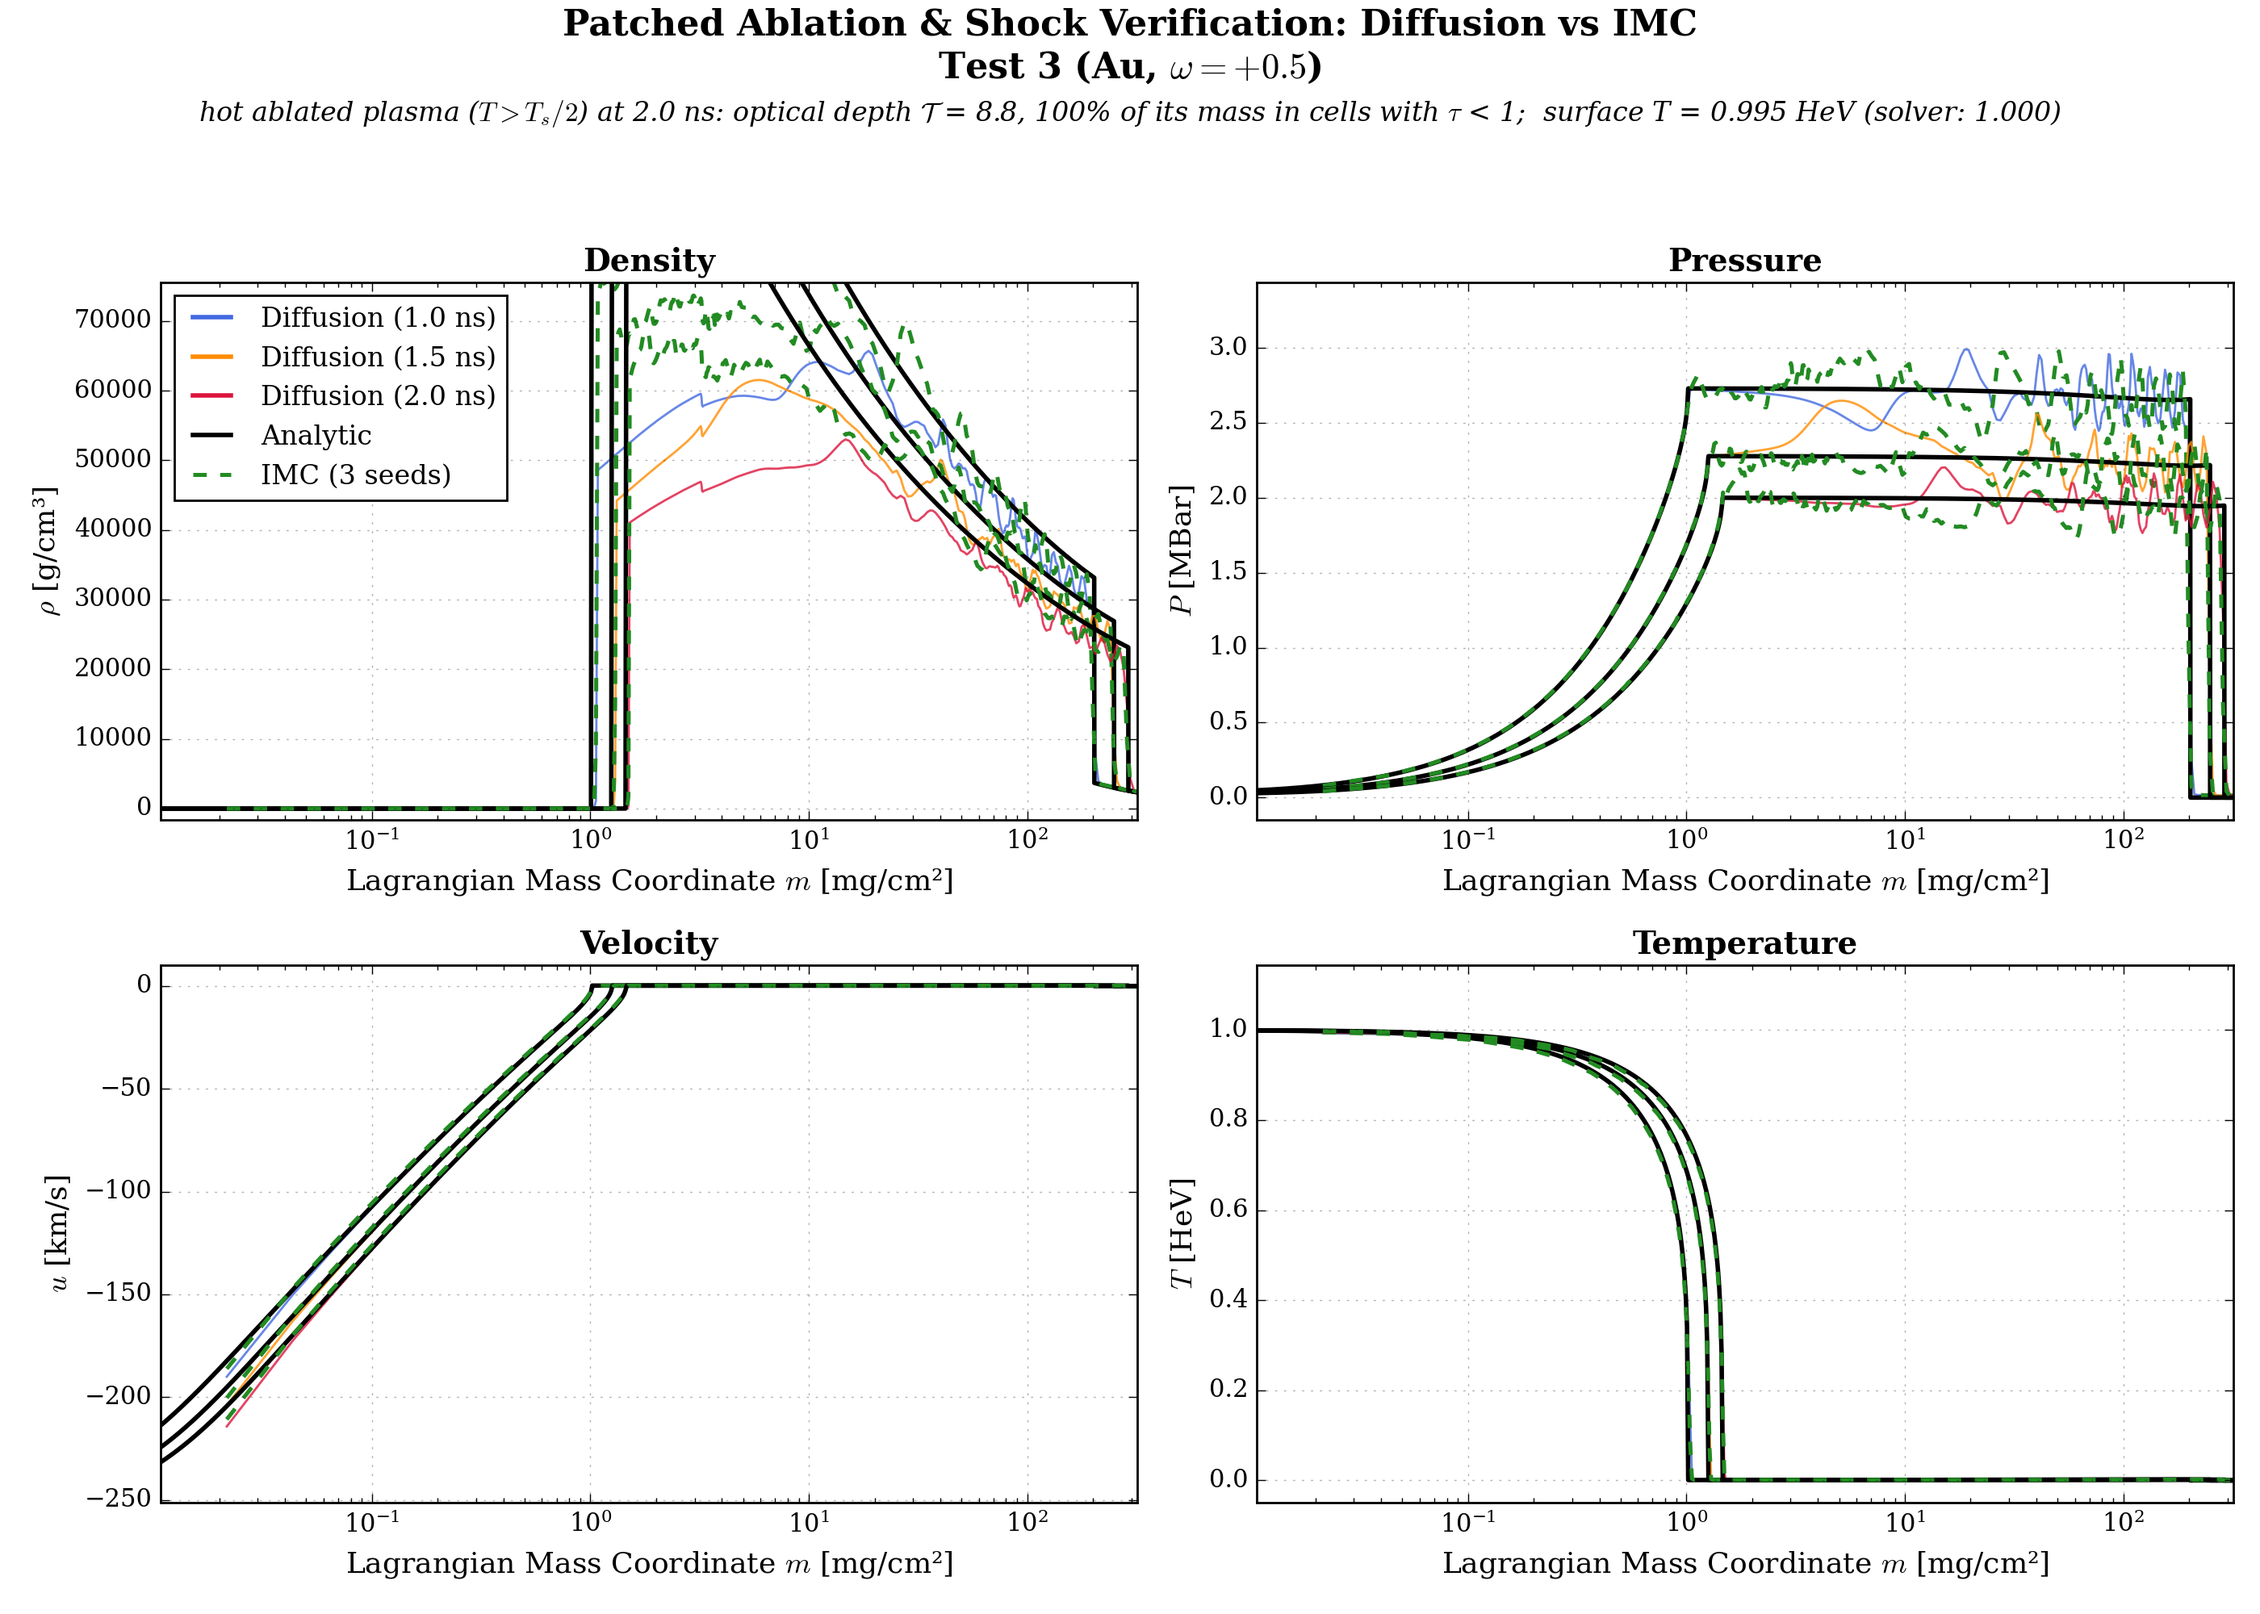
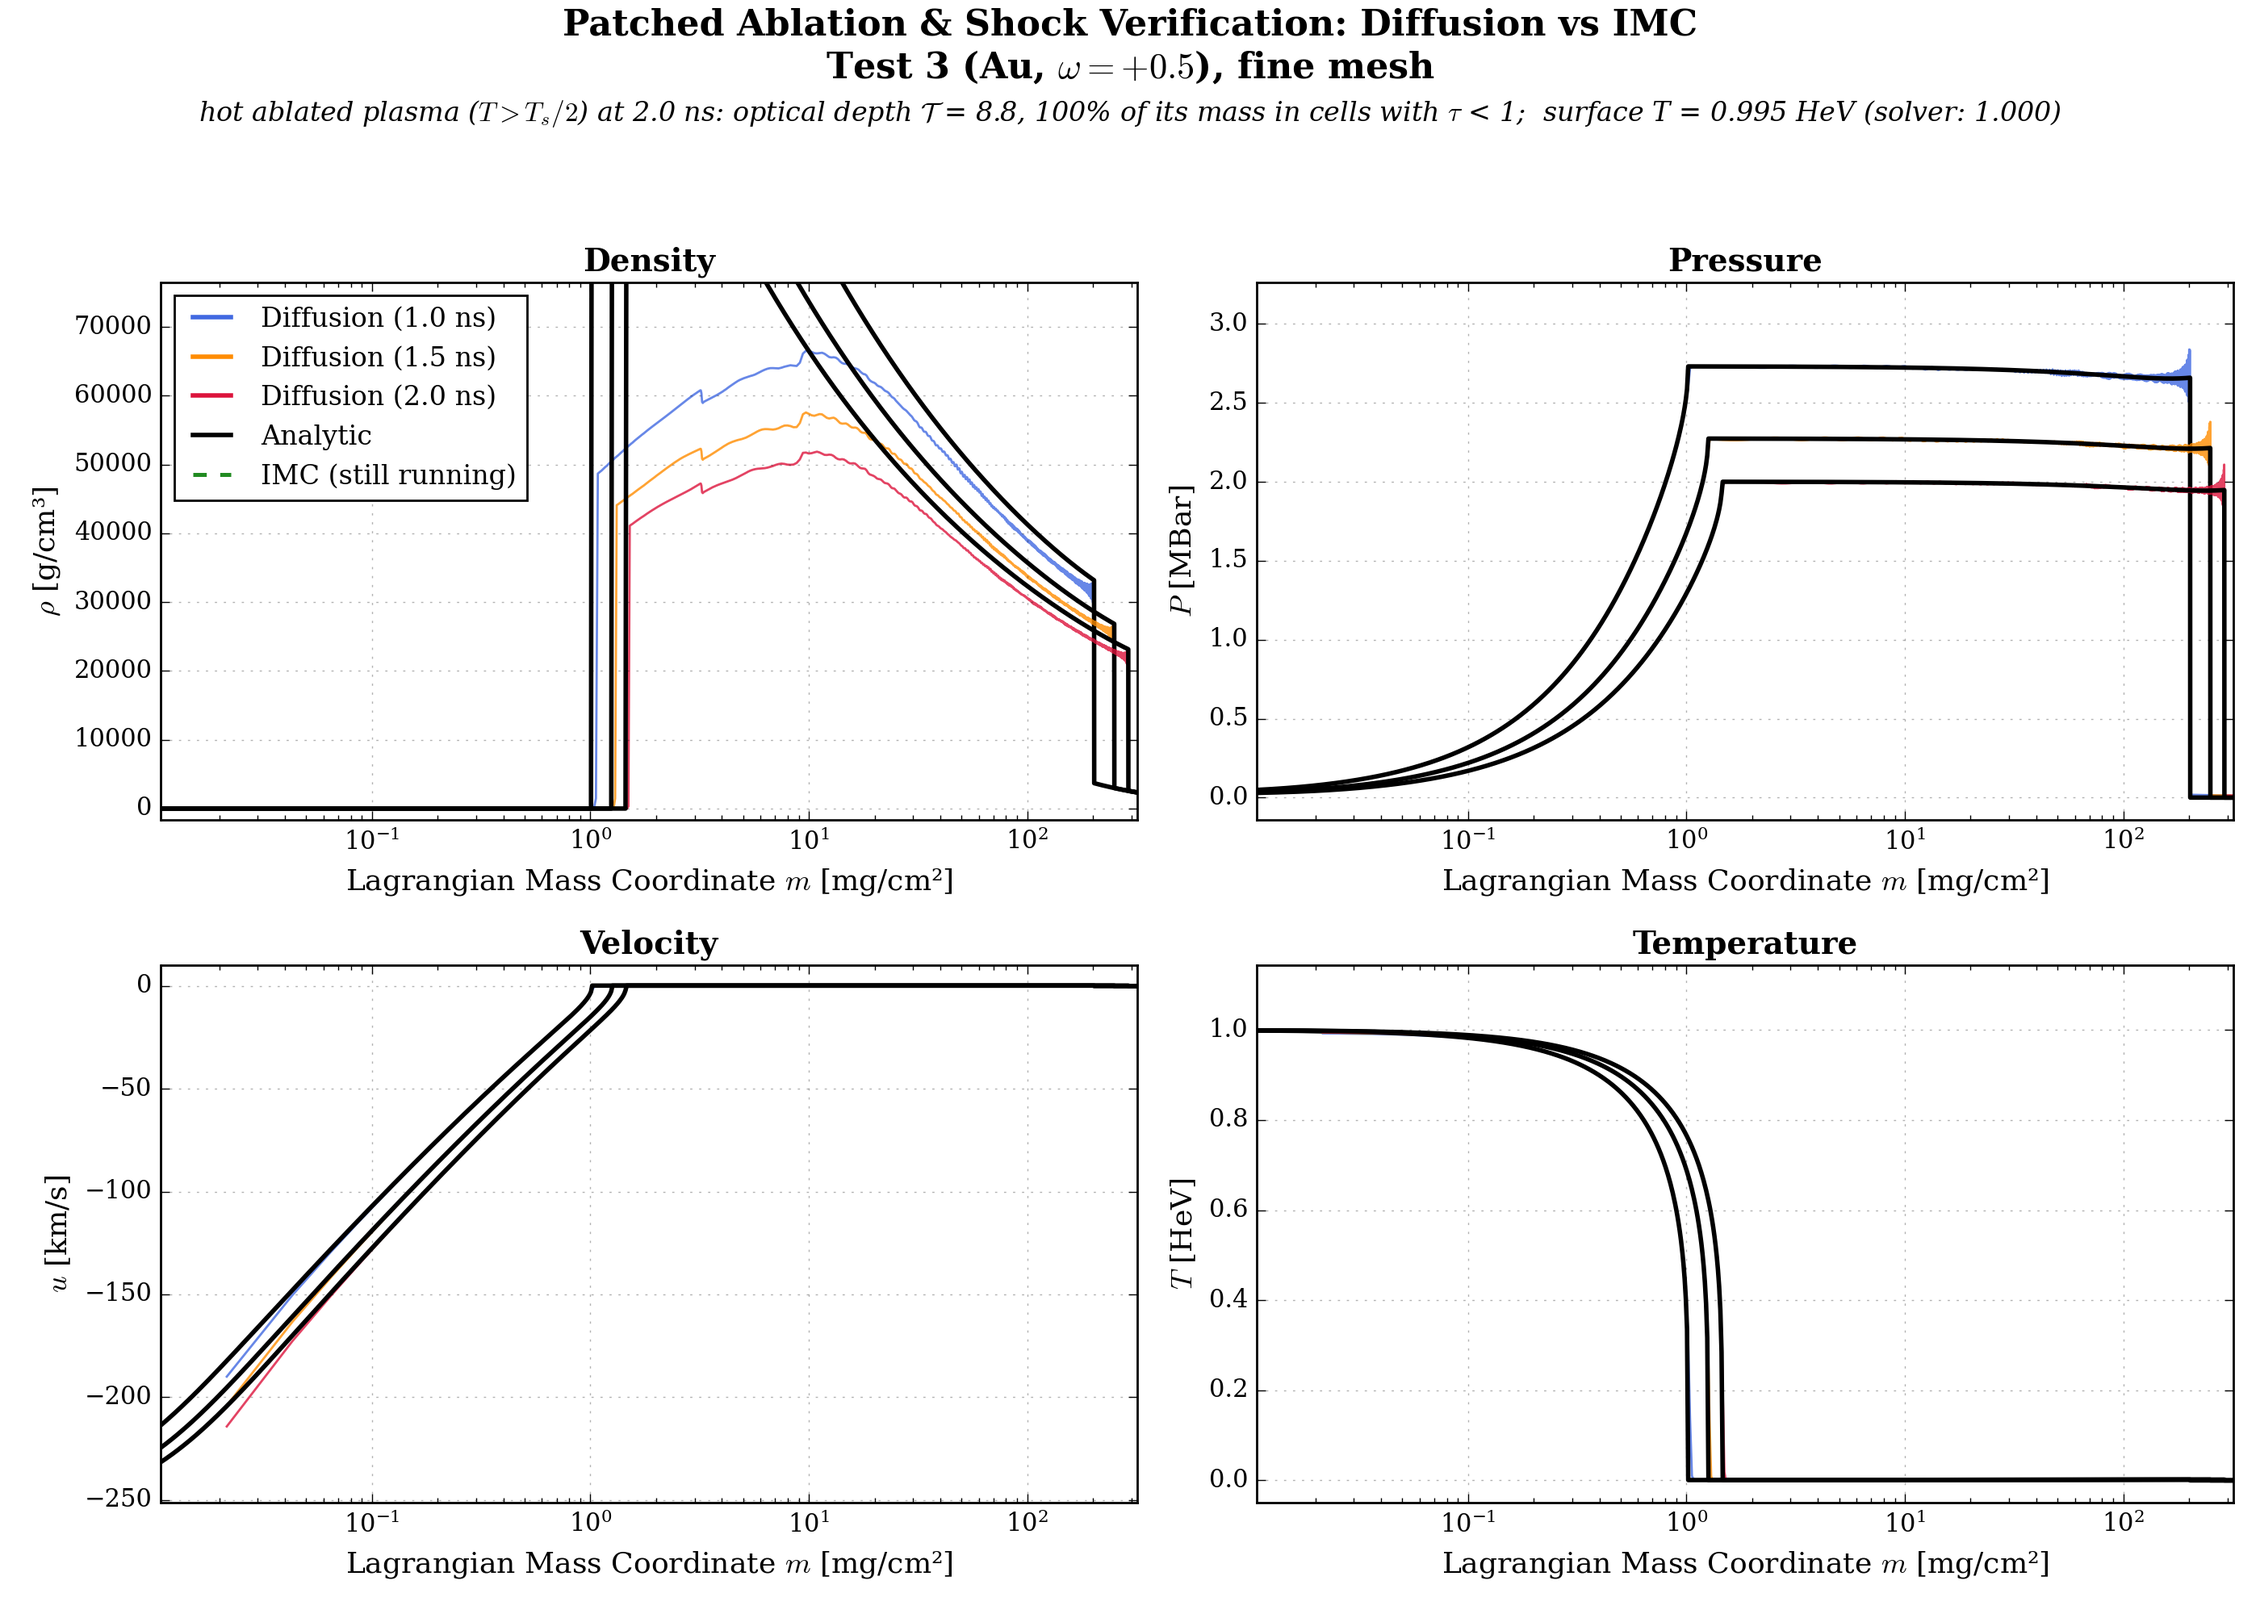
Test 3 on a fine mesh: SimulationConfig.max_cell_mass
Caps the cell mass with a smooth (<= 5% per cell) transition, keeping the
thin surface cells that set dt.  Test 3 (Au, omega = +0.5) on 1237 cells:
diffusion's shock goes from -2.1% to 0.0% of the semi-analytic one; the
profile figure now shows the fine mesh (IMC still running).

diff --git a/src/rad_hydro_sim/simulation/iterator.py b/src/rad_hydro_sim/simulation/iterator.py
@@ -63,6 +63,9 @@ def initialize_problem(case: RadHydroCase, config: SimulationConfig) -> RadHydro
         )
     else:
         raise ValueError(f"mesh must be 'default' or 'uniform_mass', got {mesh!r}")
+    max_cell_mass = getattr(config, "max_cell_mass", None)
+    if max_cell_mass is not None:
+        x_nodes = _cap_cell_masses(x_nodes, case, geom, float(max_cell_mass))
     x_cells = 0.5 * (x_nodes[:-1] + x_nodes[1:])
 
     # Cell masses of rho(r) = rho0 r^-omega, integrated over the true volume
@@ -153,6 +156,39 @@ def initialize_problem(case: RadHydroCase, config: SimulationConfig) -> RadHydro
         T_material=T_material, T_rad=T_rad, E_rad=E_rad,
     )
     return state
+
+
+def _cap_cell_masses(x_nodes: np.ndarray, case: RadHydroCase, geom, max_cell_mass: float,
+                     growth: float = 1.05) -> np.ndarray:
+    """Limit the cell mass to max_cell_mass, with a smooth transition (Phase C 1/2).
+
+    The given mesh is kept up to its first cell heavier than the cap: those cells, the default
+    graded mesh's thin surface cells, set the time step.  From there the cell mass grows by at
+    most `growth` per cell up to the cap, and stays at the cap to the end; the last cell takes
+    the remainder.  (Splitting each heavy cell into whole pieces instead left neighbours with
+    mass ratios down to 0.5, and the Lagrangian hydro made density spikes at those jumps.)
+    Planar, x_min = 0, rho0 x^-omega: m(x) = rho0 x^(1-omega) / (1-omega).
+    """
+    if geom.alpha != 0 or case.x_min != 0.0:
+        raise NotImplementedError("max_cell_mass is implemented for planar x_min = 0 only.")
+    w = case.omega
+    m_nodes = case.rho0 * x_nodes ** (1.0 - w) / (1.0 - w)
+    dm = np.diff(m_nodes)
+    heavy = np.flatnonzero(dm > max_cell_mass)
+    if not heavy.size:
+        return x_nodes
+    j = int(heavy[0])                          # keep nodes 0..j
+    m_new, size, m_total = list(m_nodes[:j + 1]), dm[j - 1] if j > 0 else max_cell_mass, m_nodes[-1]
+    while m_new[-1] < m_total:
+        size = min(max_cell_mass, size * growth)
+        m_new.append(min(m_new[-1] + size, m_total))
+    if len(m_new) > j + 2 and m_new[-1] - m_new[-2] < 0.5 * size:
+        m_new.pop(-2)                          # merge a sliver into the last cell
+    m_new = np.asarray(m_new)
+    x_new = ((1.0 - w) * m_new / case.rho0) ** (1.0 / (1.0 - w))
+    x_new[: j + 1] = x_nodes[: j + 1]
+    x_new[-1] = x_nodes[-1]
+    return x_new
 
 
 def _subsonic_heat_wave_cache_key(case: RadHydroCase) -> tuple[float, float, float, float, float, float, float, float, float]:

diff --git a/src/rad_hydro_sim/verification/imc_vs_diffusion.py b/src/rad_hydro_sim/verification/imc_vs_diffusion.py
@@ -97,6 +97,17 @@ HYDRO_CASES = {
     # near its 2e5 cap (0.6 s per step on the 1397-cell mesh), so the census is combed at 3e4.
     # The default graded mesh left 0.06 mg/cm^2 cells across the shock (the shock 13% behind the
     # solver's); a uniform-mass mesh of 1000 cells gives 0.0073 mg/cm^2 everywhere.
+    # Test 3 on a finer mesh: the default graded mesh's shocked region has cells of 1-12 mg/cm^2
+    # (the shock at 200-290 mg/cm^2); capping cells at 0.3 mg/cm^2 refines it ~30x while keeping
+    # the 1e-13 cm surface cells that set dt, so the step count is unchanged.
+    "test3_fine": HydroCase("CONSTANT_TEMPERATURE_OMEGA_0_5_FULL", r"Test 3 (Au, $\omega=+0.5$), fine mesh", N=25,
+                            store_every=2000, log_mass_axis=True, config=(("max_cell_mass", 3e-4),),
+                            imc=(("imc_n_emission", 2000), ("imc_n_bath", 2000), ("imc_max_census", 20000))),
+    # The same with the smooth cap (cell mass growing by <= 5% per cell); "test3_fine" was made with
+    # an earlier cap that split cells into whole pieces and left density spikes at the mass jumps.
+    "test3_smooth": HydroCase("CONSTANT_TEMPERATURE_OMEGA_0_5_FULL", r"Test 3 (Au, $\omega=+0.5$), fine mesh",
+                              N=25, store_every=2000, log_mass_axis=True, config=(("max_cell_mass", 3e-4),),
+                              imc=(("imc_n_emission", 2000), ("imc_n_bath", 2000), ("imc_max_census", 20000))),
     "test4_full": HydroCase("CONSTANT_TEMPERATURE_OMEGA_MINUS_0_5_FULL", r"Test 4 (Au, $\omega=-0.5$)", N=1000,
                             store_every=40, config=(("mesh", "uniform_mass"),),
                             imc=(("imc_n_emission", 5000), ("imc_n_bath", 5000), ("imc_max_census", 30000))),
@@ -979,7 +990,9 @@ FIGURE_NAMES = {"t1": "t1_sio2_outgoing_flux.png", "test1": "test1_profiles.png"
                 "test2": "test2_profiles.png", "thin100": "thin100_profiles.png",
                 "test1_full": ("test1_full_profiles.png", "test1_full_fronts.png"),
                 "test2_full": ("test2_full_profiles.png", "test2_full_fronts.png"),
-                **{f"test{k}_full": (f"test{k}_full_profiles.png", f"test{k}_full_fronts.png") for k in range(3, 7)}}
+                **{f"test{k}_full": (f"test{k}_full_profiles.png", f"test{k}_full_fronts.png") for k in range(3, 7)},
+                "test3_fine": ("test3_fine_profiles.png", "test3_fine_fronts.png"),
+                "test3_smooth": ("test3_full_profiles.png", "test3_smooth_fronts.png")}
 
 
 def main(argv=None):

diff --git a/tests/imc/test_paper_tests_options.py b/tests/imc/test_paper_tests_options.py
@@ -30,6 +30,17 @@ def test_uniform_mass_mesh_gives_equal_cell_masses(key):
     assert state.x[0] == 0.0 and state.x[-1] == case.x_max
 
 
+def test_max_cell_mass_splits_only_the_heavy_cells():
+    case = P.PRESET_TEST_CASES[P.CONSTANT_TEMPERATURE_OMEGA_0_5_FULL]
+    coarse = initialize_problem(case, SimulationConfig(N=25))
+    fine = initialize_problem(case, SimulationConfig(N=25, max_cell_mass=3e-4))
+    assert fine.m_cells.max() <= 3e-4 * (1 + 1e-9)
+    assert fine.m_cells.sum() == pytest.approx(coarse.m_cells.sum(), rel=1e-12)
+    # The light surface cells, which set the time step, are kept node for node.
+    light = int(np.argmax(coarse.m_cells > 3e-4))
+    np.testing.assert_array_equal(fine.x[:light + 1], coarse.x[:light + 1])
+
+
 def test_default_mesh_is_unchanged():
     default = initialize_problem(TEST4, SimulationConfig(N=50))
     explicit = initialize_problem(TEST4, SimulationConfig(N=50, mesh="default"))

diff --git a/src/hydro_sim/problems/simulation_config.py b/src/hydro_sim/problems/simulation_config.py
@@ -142,6 +142,9 @@ class SimulationConfig:
     # Lagrangian mesh: "default" (make_nodes: uniform for omega = 0, graded for
     # omega != 0) or "uniform_mass" (every cell the same initial mass; planar).
     mesh: str = "default"
+    # If set (g/cm^2), every cell heavier than this is split into equal-mass cells
+    # (planar).  Refines the heavy cells only; the thinnest cells, which set dt, stay.
+    max_cell_mass: Optional[float] = None
 
     def with_output_paths(self, case_name: str) -> "SimulationConfig":
         """

diff --git a/md/phase_c/phase_c_tests3to6_results.md b/md/phase_c/phase_c_tests3to6_results.md
@@ -81,6 +81,12 @@ With ω = −0.5 the ablated mass is 28–37% of the shocked mass, and the shock
 - **The heat front is temperature-based.** It is the first point from the surface where T < 0.3 T_s, between cell centres. The density-based detector of Phase C failed for ω = +0.5: the surface cells start at ~10⁶ g/cm³ and never return to their initial density after ablating. Tables use the stored profiles at 1, 1.5 and 2 ns (within 1% of those times), so runs made before the change are analyzed with the same definition. The Phase C document's gold numbers used the old definition; the two agree within a cell.
 - **Test 4 runs on a uniform-mass mesh** (`SimulationConfig(mesh="uniform_mass")`). The default graded mesh put 628 of its 1397 cells in the first 10⁻⁵ g/cm², and only 51 coarse cells across the shocked region. That mesh's 0.934 HeV surface and 10⁻¹¹ energy error went away on the uniform mesh (0.994 HeV, 10⁻¹⁴), and the step count dropped 20×. Its gap to the solver did not.
 - **Test 3 runs with 1/10 of the packets.** ρ ∝ x^(−0.5) puts ~10⁶ g/cm³ in a 10⁻¹⁰ cm first cell; the acoustic CFL then forces dt ~ 10⁻¹⁵ s, ~2×10⁶ steps to 2 ns. **Test 4's census is combed at 3×10⁴ packets**: its near-zero-density surface cells are optically thin and held the census at its 2×10⁵ cap.
+- **Test 3 on a fine mesh** (`test3_smooth`; `SimulationConfig(max_cell_mass=3e-4)`). The default graded mesh resolves the ablated layer well: 0.0216 mg/cm² cells, ~70 across it. Its shocked region, though, grows to 1–12 mg/cm² cells, with the shock at 200–290 mg/cm².
+  - **How the cap works:** it keeps every cell lighter than 0.3 mg/cm², including the 3×10⁻¹³ cm surface cells that set dt, then grows the cell mass by ≤ 5% per cell up to the cap. The result is 1237 cells at the same step count. Each step costs more, so diffusion takes 2.4–7 h depending on machine load, against 22 min on the coarse mesh.
+  - **What it changes:** diffusion's shock goes from −2.1% to 0.0% of the solver's, and the pressure plateau lies on it; the heat front (−1.0%) and the ablation pressure (−4.5%) are unchanged.
+  - **A failed first version:** an earlier version of the cap split each heavy cell into whole pieces. That left neighbours at mass ratios down to 0.52, and the hydro made density spikes at exactly those jumps, so it was replaced.
+  - **The density deficit:** behind the ablation front (1–10 mg/cm²) diffusion's density is 20–25% below the solver's at equal pressure, i.e. hotter material. The likely cause is the wall-heating error of Lagrangian hydro next to a piston, against a solver density that rises steeply toward the front for ω = +0.5. This is not yet confirmed.
+  - `test3_full_profiles.png` shows this fine mesh. The IMC curves are added when its runs finish.
 - **Copper's domain is cut to 3×10⁻² g/cm²**, holding the 2.2×10⁻² g/cm² shock, so that 1000 cells resolve its ablated layer.
 
 ## 6. Reproducing
